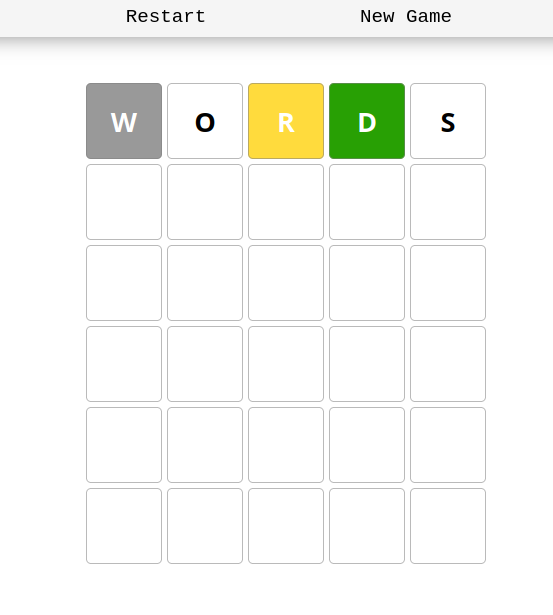
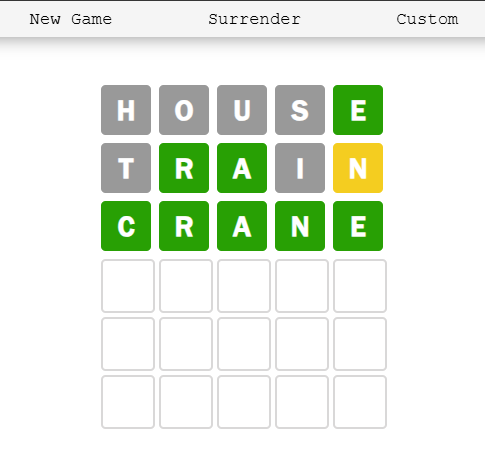
word check logic implemented

Changed region(s): [[0.1546, 0.1191, 0.866, 0.9234], [0.0, 0.0, 1.0, 0.0894]]

diff --git a/script.js b/script.js
@@ -15,10 +15,10 @@ let alphabets =
  'U', 'V', 'W', 'X', 'Y', 'Z'
 ]; // all the alphabets (will be used for keyboard layout)
 
-let total_chances   = 7;
-let word_length     = 7; 
+let total_chances   = 6;
+let word_length     = 5; 
 
-let word; // representing current word to guess
+let word = ""; // representing current word to guess
 let current_chance; // representing row
 let current_index;  // represnting column
 
@@ -34,7 +34,7 @@ let word_grid_items;
 
 function restart() {
     word_grid.innerHTML = "";
-
+    current_word = "";
 
     current_chance = 0;
     current_index  = 0;
@@ -53,6 +53,8 @@ function restart() {
     word_grid_items = word_grid.querySelectorAll("div")
 
     word = data[Math.floor(Math.random() * data.length)];
+
+    window.alert(word);
 }
 
 
@@ -61,12 +63,13 @@ document.addEventListener("DOMContentLoaded", () => {
 });
 
 document.addEventListener("keydown", (event) => {
-    console.log(current_index + '\n');
     
     if (/^Key[A-Z]$/.test(event.code)) {
         if (word_grid_items[getIndex()].className == "word-grid-item-untyped"){
             word_grid_items[getIndex()].className = "word-grid-item-typed";
             word_grid_items[getIndex()].textContent = event.key.toUpperCase();
+            current_word = current_word + event.key.toUpperCase();
+            console.log(current_word);
         }
         
         if (current_index < word_length-1) {
@@ -80,10 +83,11 @@ document.addEventListener("keydown", (event) => {
         if (current_index > 0 || current_index == 0) {
             valid = true;
         }
-
+        
         if (valid) {
             word_grid_items[getIndex()].className = "word-grid-item-untyped";
             word_grid_items[getIndex()].textContent = '';
+
         }
 
         if (current_index > 0) {
@@ -93,19 +97,32 @@ document.addEventListener("keydown", (event) => {
 
     if (event.key === "Enter"){
         let valid = false;
+        let correct = true;
 
         if (word_grid_items[getIndex()].className == "word-grid-item-untyped"){
             window.alert("incomplete word"); 
         }
         else if (current_index == word_length-1 && word_grid_items[getIndex()].className == "word-grid-item-typed"){
+
             for (let i = 0; i < word_length; i++){
-                word_grid_items[getIndexParam(i, current_chance)].className = "word-grid-item-wrong";
+                if (word_grid_items[getIndexParam(i, current_chance)].textContent === word[i]){
+                    word_grid_items[getIndexParam(i, current_chance)].className = "word-grid-item-correct";
+                }
+                else if (word.includes(word_grid_items[getIndexParam(i, current_chance)].textContent)){
+                    word_grid_items[getIndexParam(i, current_chance)].className = "word-grid-item-exist";
+                    correct = false;
+                }
+                else {
+                    word_grid_items[getIndexParam(i, current_chance)].className = "word-grid-item-wrong";
+                    correct = false;
+                }
             }
             
+            current_word = "";
             valid = true;
         }
 
-        if (valid && current_chance < total_chances){
+        if (valid && current_chance < total_chances && !correct){
             current_chance++;
             current_index = 0;
         }

diff --git a/style.css b/style.css
@@ -53,8 +53,6 @@
 .word-grid{
     width: fit-content;
     display: grid;
-    /* grid-template-columns: repeat(5, 1fr);
-    grid-template-rows: repeat(6, 1fr); */
     gap: 5px;
 }
 
@@ -70,6 +68,7 @@
     font-size: 2em;
     font-family: 'Franklin Gothic Medium', 'Arial Narrow', Arial, sans-serif;
     font-weight: bold;
+    
     
 }
 
